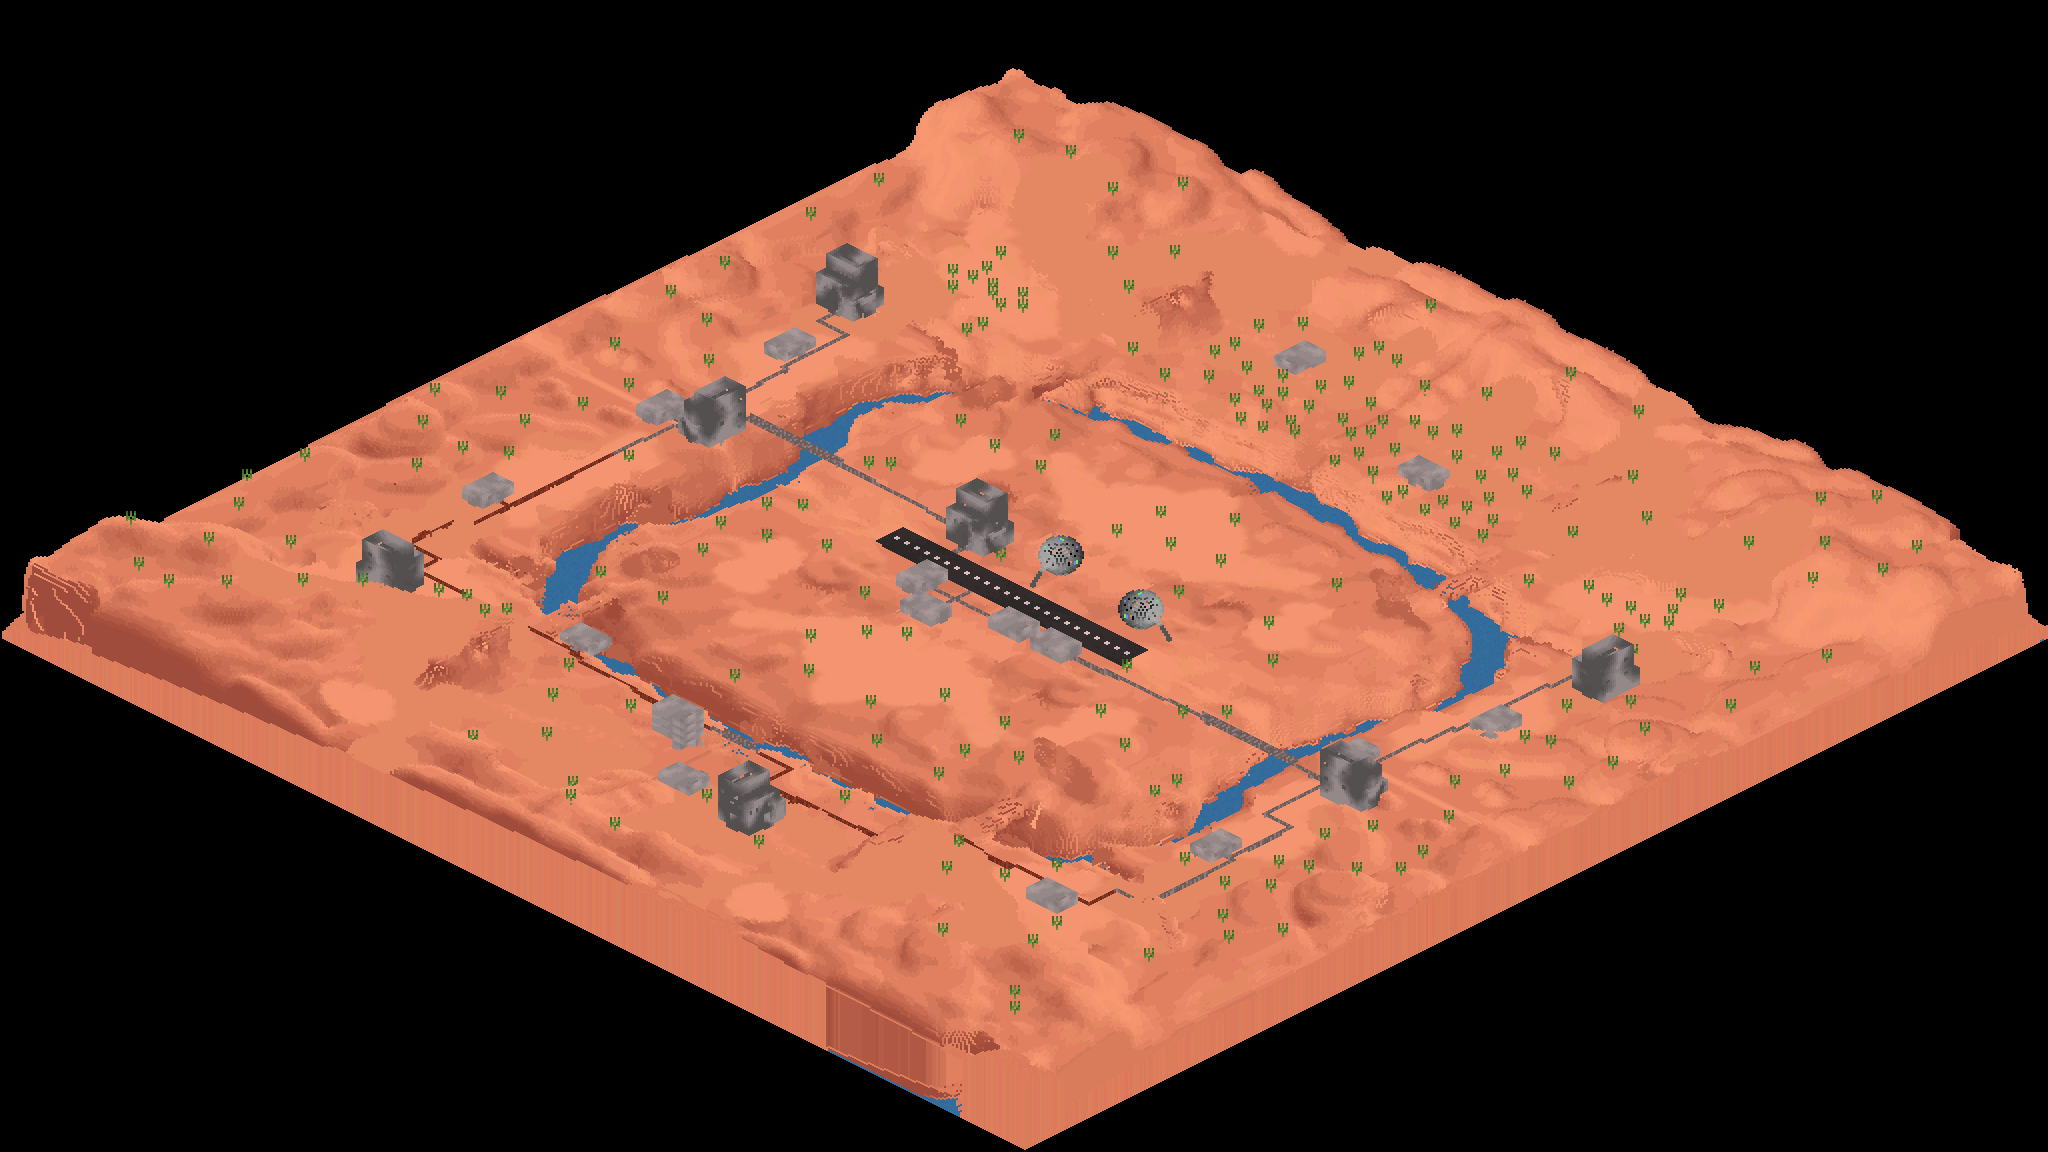
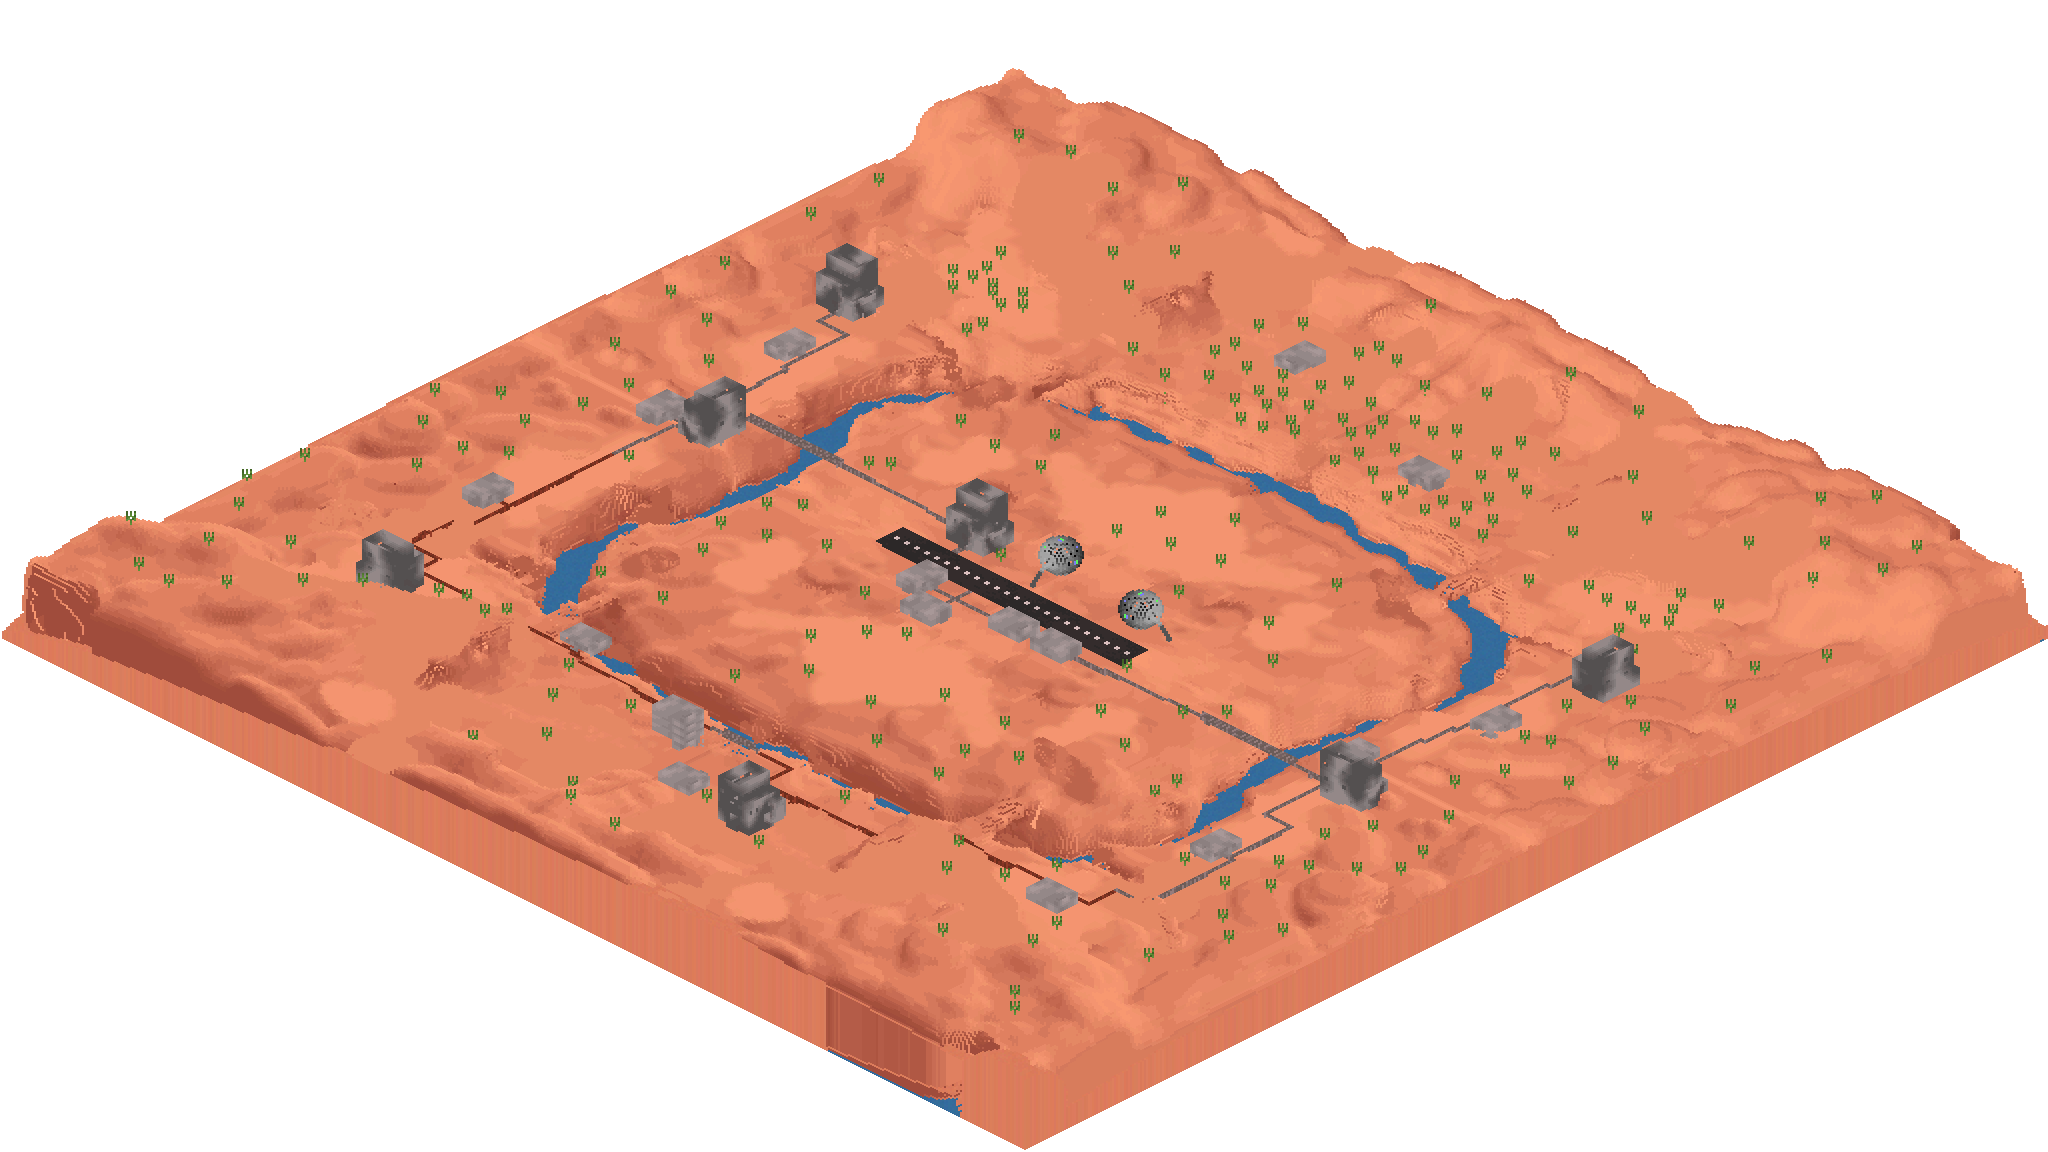
Add background colour/transparency options

diff --git a/README.md b/README.md
@@ -9,22 +9,32 @@ Warning: This is my first D project, used as an excuse to try out the language.
 The code is possibly broken and/or includes a lot of bad practices.
 
 Usage
-----
+-----
 
     d-vxlmappreview --input=mesa.vxl --output=mesa.png
+    d-vxlmappreview --input=mesa.vxl --output=mesa.png --background=0x333333
+    d-vxlmappreview --input=mesa.vxl --output=mesa.png --background=0x000000FF
+    d-vxlmappreview --input=mesa.vxl --output=mesa.png --transparent
 
 ![Preview image for mesa.vxl](docs/images/mesa.png)
+
+Building
+--------
+
+    dub build
+
+Note: This project relies on D's builtin bounds checking for handling certain invalid/malicious files.
 
 TODO
 ----
 
  * The TODO comments in the source.
  * Allow use from Python somehow (build as C shared lib? pyd?)
- * Background colour option (including transparent)
  * Lighting?
-
 
 Credits
 -------
 
 Based on (a fork of a fork of) [this script](https://gist.github.com/iamgreaser/4709760) by [iamgreaser](https://github.com/iamgreaser).
+
+Makes use of [dlib](https://github.com/gecko0307/dlib).
